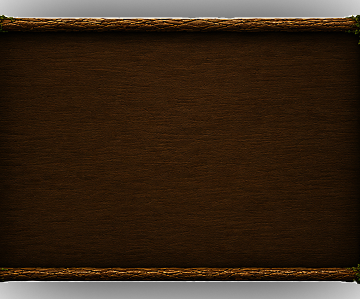
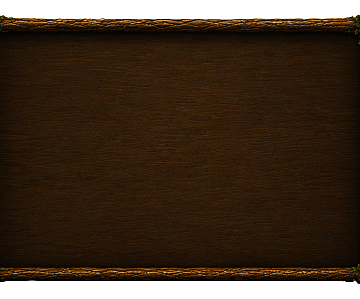
new bg with shadow and fix to the pad

Changed region(s): [[0.0, 0.9331, 1.0, 1.0], [0.0, 0.0, 1.0, 0.0903]]

diff --git a/apps/forest-gang/src/components/GameLogoFrame.svelte b/apps/forest-gang/src/components/GameLogoFrame.svelte
@@ -29,12 +29,12 @@
 	const P_LOGO_CX = $derived(main.width * 0.5);
 	const P_PP_W = $derived(main.width * 0.16);
 	const P_PP_H = $derived(P_PP_W / BRAND_ASPECT);
-	// The Press Play sprite stacks above the logo; on very short screens 8.5%·height puts the whole
-	// stack partly off the top, so floor the logo centre to keep Press Play below a top margin.
-	const P_LOGO_TOP_MARGIN = $derived(main.height * 0.03);
+	// The Press Play sprite stacks above the logo; on very short screens the floor keeps the whole
+	// stack below a small top margin. Sits near the top of the screen (above the board).
+	const P_LOGO_TOP_MARGIN = $derived(main.height * 0.008);
 	const P_LOGO_CY = $derived(
 		Math.max(
-			main.height * 0.085,
+			main.height * 0.055,
 			P_LOGO_TOP_MARGIN + P_PP_H + main.height * 0.006 + P_LOGO_H * 0.5,
 		),
 	);
@@ -42,14 +42,14 @@
 	// Portrait top-bar counters flanking the logo (Figma 2792-4133). Same data/logic as
 	// desktop: free-spins current/total via events, bonus symbol + global multiplier from state.
 	const BADGE_ASPECT = 1431 / 1099; // badge_frame.png
-	const badgeW = $derived(main.width * 0.15);
+	const badgeW = $derived(main.width * 0.19);
 	const badgeH = $derived(badgeW / BADGE_ASPECT);
 	// Left column: bonus symbol badge on top, multiplier badge underneath (like the FS counter).
-	const symBadgeCY = $derived(main.height * 0.072);
-	const multBadgeCY = $derived(symBadgeCY + badgeH * 0.92);
-	const fsBadgeCY = $derived(main.height * 0.098);
-	const leftBadgeX = $derived(main.width * 0.135);
-	const rightBadgeX = $derived(main.width * 0.865);
+	const symBadgeCY = $derived(main.height * 0.058);
+	const multBadgeCY = $derived(symBadgeCY + badgeH * 0.9);
+	const fsBadgeCY = $derived(main.height * 0.085);
+	const leftBadgeX = $derived(main.width * 0.145);
+	const rightBadgeX = $derived(main.width * 0.855);
 
 	// Free-spins counter state (mirrors FreeSpinCounter.svelte).
 	let fsShow = $state(false);
@@ -119,11 +119,11 @@
 		{#if showBonusBadge && bonusSymbolKey}
 			<Container x={leftBadgeX} y={symBadgeCY}>
 				<Sprite key="badgeFrame" anchor={0.5} width={badgeW} height={badgeH} />
-				<Sprite key={bonusSymbolKey} anchor={0.5} width={badgeH * 0.6} height={badgeH * 0.6} />
+				<Sprite key={bonusSymbolKey} anchor={0.5} y={-badgeH * 0.02} width={badgeH * 0.56} height={badgeH * 0.42} />
 			</Container>
 			<Container x={leftBadgeX} y={multBadgeCY}>
 				<Sprite key="badgeFrame" anchor={0.5} width={badgeW} height={badgeH} />
-				<Text anchor={0.5} text={`x${globalMultiplier}`} style={titleStyle(badgeH * 0.34)} />
+				<Text anchor={0.5} y={-badgeH * 0.02} text={`x${globalMultiplier}`} style={titleStyle(badgeH * 0.3)} />
 			</Container>
 		{/if}
 
@@ -131,8 +131,8 @@
 		{#if showFsBadge}
 			<Container x={rightBadgeX} y={fsBadgeCY}>
 				<Sprite key="badgeFrame" anchor={0.5} width={badgeW} height={badgeH} />
-				<Text anchor={0.5} y={-badgeH * 0.22} text="FREE SPINS" style={titleStyle(badgeH * 0.14)} />
-				<Text anchor={0.5} y={badgeH * 0.15} text={`${fsCurrent}/${fsTotal}`} style={titleStyle(badgeH * 0.32)} />
+				<Text anchor={0.5} y={-badgeH * 0.15} text="FREE SPINS" style={titleStyle(badgeH * 0.13)} />
+				<Text anchor={0.5} y={badgeH * 0.08} text={`${fsCurrent}/${fsTotal}`} style={titleStyle(badgeH * 0.26)} />
 			</Container>
 		{/if}
 	{:else}

diff --git a/apps/forest-gang/src/components/Background.svelte b/apps/forest-gang/src/components/Background.svelte
@@ -5,7 +5,11 @@
 
 	const context = getContext();
 	const BACKGROUND_ASPECT = 1920 / 1080;
+	const PORTRAIT_ASPECT = 360 / 800; // bg_mobile_portrait.jpg
 	const canvas = $derived(context.stateLayoutDerived.canvasSizes());
+	const isPortrait = $derived(context.stateLayoutDerived.layoutType() === 'portrait');
+	// Portrait base game uses the dedicated portrait forest; bonus rounds keep their themed art.
+	const isPortraitBase = $derived(isPortrait && context.stateGame.bonusMode === null);
 
 	// Themed bonus backgrounds: green forest for the normal bonus (Deal It / freegame),
 	// golden forest for the super bonus (All In / superspin); everything else keeps the default.
@@ -17,19 +21,20 @@
 			case 'superspin':
 				return 'bonusSuperBackground';
 			default:
-				return 'visualV2';
+				return isPortrait ? 'visualPortrait' : 'visualV2';
 		}
 	});
+	const aspect = $derived(isPortraitBase ? PORTRAIT_ASPECT : BACKGROUND_ASPECT);
 	const cover = $derived.by(() => {
 		const width = canvas.width;
 		const height = canvas.height;
 		const canvasAspect = width / height;
 
-		if (canvasAspect > BACKGROUND_ASPECT) {
-			return { width, height: width / BACKGROUND_ASPECT };
+		if (canvasAspect > aspect) {
+			return { width, height: width / aspect };
 		}
 
-		return { width: height * BACKGROUND_ASPECT, height };
+		return { width: height * aspect, height };
 	});
 </script>
 
@@ -42,5 +47,17 @@
 	height={cover.height}
 	alpha={0.96}
 />
+<!-- Portrait: Figma top+bottom shadow drawn on top of the bg here (before the board/logo in
+	 Game.svelte), so it darkens the scene but never the board, symbols, or HUD icons. -->
+{#if isPortraitBase}
+	<Sprite
+		key="portraitShadow"
+		x={canvas.width * 0.5}
+		y={canvas.height * 0.5}
+		anchor={0.5}
+		width={canvas.width}
+		height={canvas.height}
+	/>
+{/if}
 <Rectangle {...canvas} backgroundColor={0x050407} alpha={0.2} zIndex={-2} />
 <Rectangle {...canvas} backgroundColor={0x000000} alpha={0.18} zIndex={-1} />

diff --git a/apps/forest-gang/src/components/HudHtml.svelte b/apps/forest-gang/src/components/HudHtml.svelte
@@ -1821,28 +1821,36 @@
 		text-shadow: 0 2px 4px rgba(0,0,0,0.7);
 	}
 
-	/* --- stats row: BALANCE · (− bet +) · BUY BONUS --- */
+	/* --- stats row: BALANCE · (− bet +) · BUY BONUS ---
+	   Centred as a group with equal gaps (not pinned to the edges). */
 	.pt-stats {
 		width: min(400px, 96vw);
 		display: flex;
 		align-items: center;
-		justify-content: space-between;
-		gap: 6px;
+		justify-content: center;
+		gap: clamp(8px, 3.5vw, 18px);
 	}
+	/* Balance: transparent (no pad), centred label + gold value. */
 	.pt-balance {
-		display: flex; flex-direction: column; align-items: flex-start;
-		min-width: 0; flex: 1 1 0;
+		flex: 0 0 auto;
+		max-width: clamp(104px, 34vw, 140px);
+		display: flex; flex-direction: column;
+		align-items: center; justify-content: center;
+		gap: 1px;
+		min-width: 0;
 		overflow: hidden;
 	}
 	.pt-balance__label {
-		font-family: 'Poppins', sans-serif; font-weight: 600; font-size: 11px;
+		font-family: 'Poppins', sans-serif; font-weight: 600; font-size: 10px;
 		letter-spacing: 0.04em; white-space: nowrap;
-		color: #fff;
+		color: #f3e7cf;
 	}
 	.pt-balance__value {
-		font-family: 'Poppins', sans-serif; font-weight: 600; font-size: 14px;
-		white-space: nowrap; transform-origin: left center;
-		color: #fff;
+		font-family: 'Poppins', sans-serif; font-weight: 700; font-size: 14px;
+		white-space: nowrap; transform-origin: center;
+		background: linear-gradient(184.14deg, #ffa90e 15.26%, #ee960b 69.74%, #d18005 92.88%);
+		-webkit-background-clip: text; background-clip: text;
+		-webkit-text-fill-color: transparent; color: transparent;
 	}
 
 	/* Bet pill: dark rounded pad with − value + (no BET label, per Figma) */

diff --git a/apps/forest-gang/src/game/assets.ts b/apps/forest-gang/src/game/assets.ts
@@ -32,6 +32,20 @@ const assets = {
 		src: './assets/components/backgrounds/visual_v2.jpg?v=20260701',
 		preload: true,
 	},
+	// Dedicated portrait forest scene (360×800) — used in the base game on portrait phones
+	// instead of the cropped landscape visualV2.
+	visualPortrait: {
+		type: 'sprite',
+		src: './assets/components/backgrounds/bg_mobile_portrait.jpg?v=20260703',
+		preload: true,
+	},
+	// Figma top+bottom shadow (node 2792-4133) layered on top of the portrait bg ONLY —
+	// rendered below the board/symbols/logo so it darkens the scene, never the UI.
+	portraitShadow: {
+		type: 'sprite',
+		src: './assets/components/backgrounds/portrait_shadow.png?v=20260703',
+		preload: true,
+	},
 	bonusNormalBackground: {
 		type: 'sprite',
 		src: './assets/components/backgrounds/bonus_normal_bg.webp?v=20260630',
@@ -64,7 +78,7 @@ const assets = {
 	},
 	slotPadMobile: {
 		type: 'sprite',
-		src: './assets/components/frames/board_frame_mobile.png?v=20260701',
+		src: './assets/components/frames/board_frame_mobile.png?v=20260703',
 		preload: true,
 	},
 	badgeFrame: {

diff --git a/apps/forest-gang/src/components/ExpandedSymbolPresenter.svelte b/apps/forest-gang/src/components/ExpandedSymbolPresenter.svelte
@@ -30,7 +30,7 @@
 	const DEER_RATIO = $derived(isPortrait ? MOBILE_RATIO : 1087 / 1447);
 	// Empty-board interior centre + height as a fraction of the deer image.
 	const PLACEHOLDER = $derived(
-		isPortrait ? { cx: 0.486, cy: 0.585, h: 0.17 } : { cx: 0.488, cy: 0.622, h: 0.18 },
+		isPortrait ? { cx: 0.486, cy: 0.575, h: 0.1 } : { cx: 0.488, cy: 0.622, h: 0.18 },
 	);
 	const LETTER_ASPECT = $derived(isPortrait ? 1.34 : 1.17); // symbol sprites ~cell aspect
 
